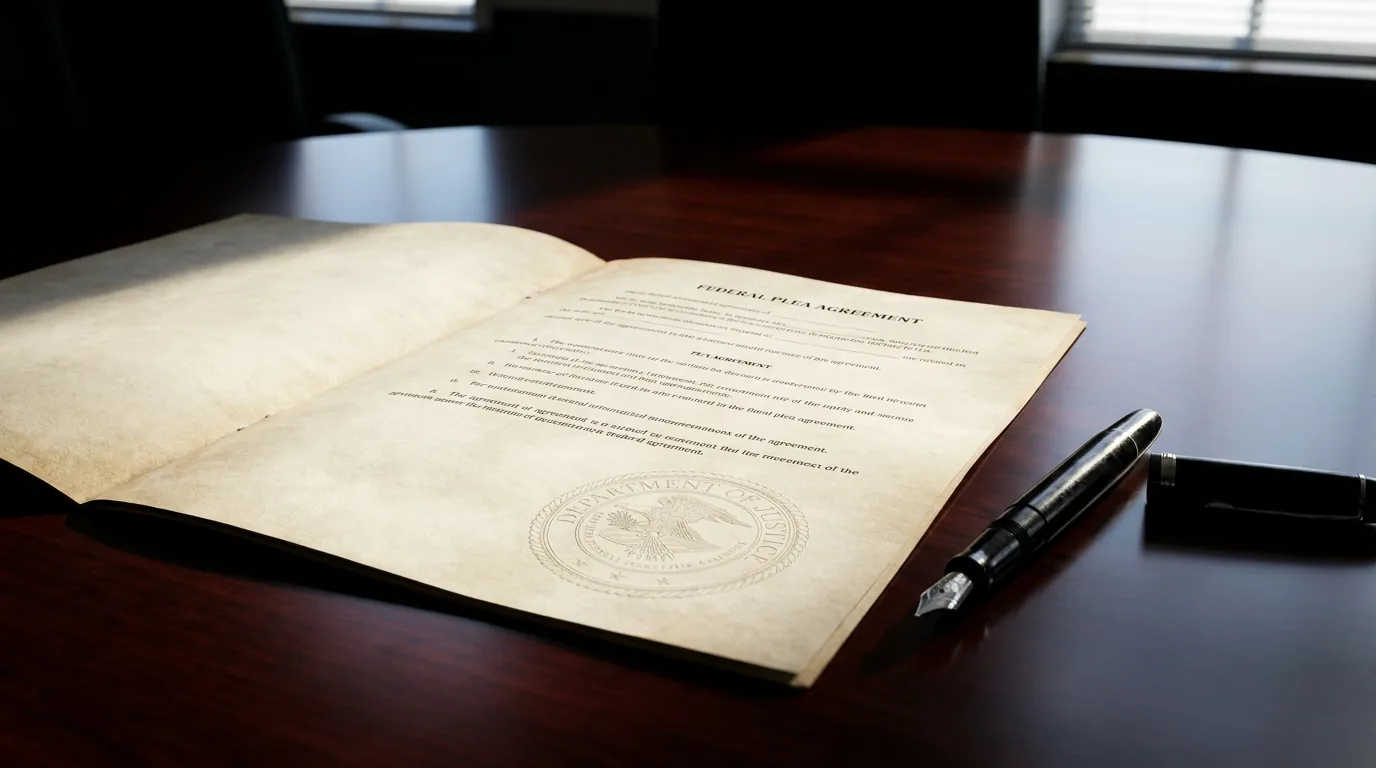
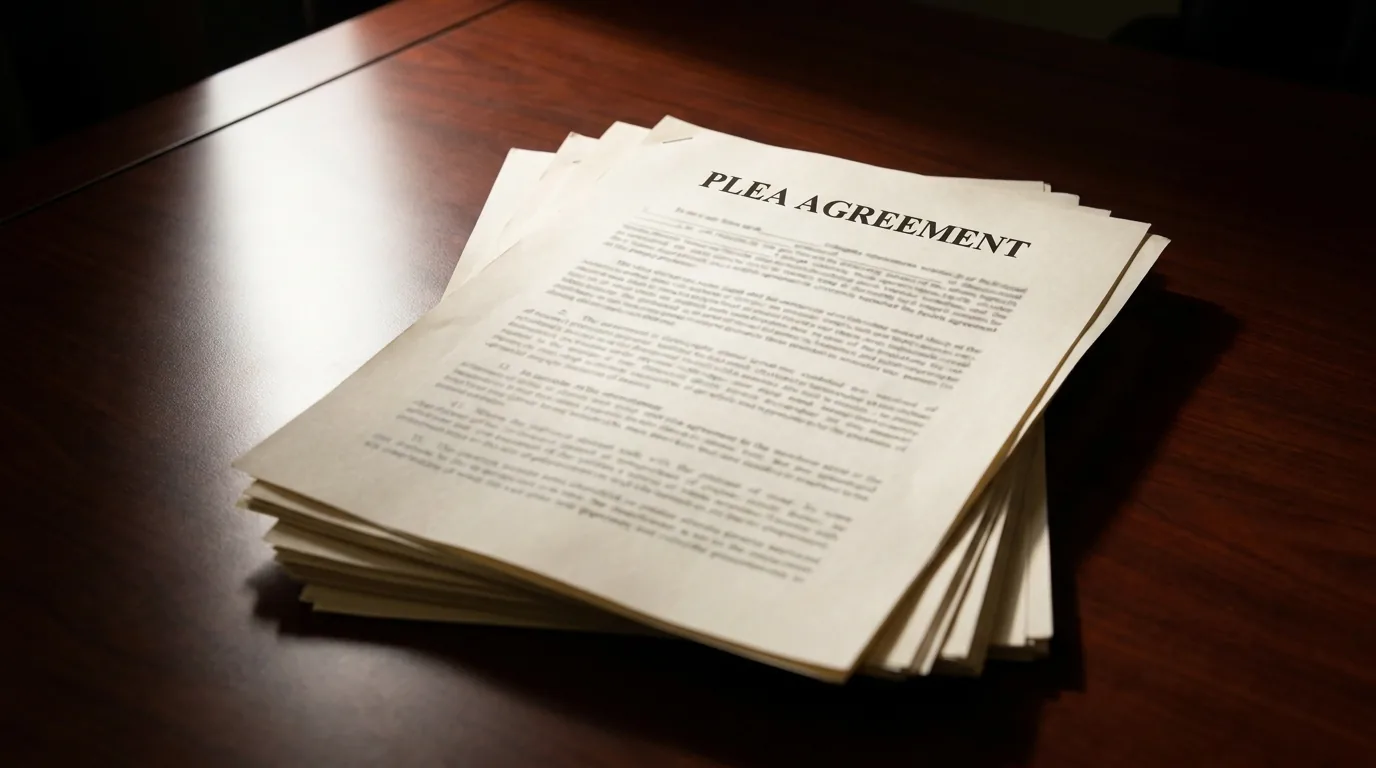
Add thumbnail to S4S dispatch card; replace 3 article covers
- s4s-money-on-books.webp: money order on dark counter for dispatch card
- Dispatch card restructured: .dispatch-card-thumb above .dispatch-card-body
  with hover zoom on thumbnail; padding moved to .dispatch-card-body
- cover-pacer.webp: modern MacBook with docket on screen (replaces 1994 PC)
- cover-plea-deal.webp: flat stacked legal pages, no booklet (fixed)
- cover-lawyer-quality.webp: defense attorney on LEFT, prosecution RIGHT (fixed)

Claude-Session: https://claude.ai/code/session_014Wyb5YrBUkEhH44U126yUb

diff --git a/assets/css/styles.css b/assets/css/styles.css
@@ -998,13 +998,32 @@ body.journal-page {
   border: 1px solid var(--border);
   border-left: 3px solid var(--accent);
   border-radius: var(--radius);
-  padding: 32px 36px;
+  padding: 0;
+  overflow: hidden;
   transition: border-color .25s var(--ease), transform .25s var(--ease);
   cursor: pointer;
 }
 .dispatch-card:hover {
   border-color: var(--accent);
   transform: translateY(-4px);
+}
+.dispatch-card-thumb {
+  width: 100%;
+  aspect-ratio: 16 / 9;
+  overflow: hidden;
+}
+.dispatch-card-thumb img {
+  width: 100%;
+  height: 100%;
+  object-fit: cover;
+  display: block;
+  transition: transform .4s var(--ease);
+}
+.dispatch-card:hover .dispatch-card-thumb img {
+  transform: scale(1.03);
+}
+.dispatch-card-body {
+  padding: 32px 36px;
 }
 
 .dispatch-card-header {

diff --git a/index.php b/index.php
@@ -293,15 +293,20 @@
 
           <div class="dispatch-articles">
             <a class="dispatch-card" href="https://setforsentencing.substack.com/p/how-and-when-to-put-money-on-a-federal" target="_blank" rel="noopener">
-              <div class="dispatch-card-header">
-                <span class="dispatch-pub">Set for Sentencing</span>
-                <span class="dispatch-date">July 19, 2026</span>
+              <div class="dispatch-card-thumb">
+                <img src="assets/img/s4s-money-on-books.webp" alt="Money order on a post office counter — putting money on a federal inmate's books" loading="lazy" />
               </div>
-              <h3>How &amp; When to Put Money on a Federal Inmate's Books</h3>
-              <p>From day one at any BOP facility, families can deposit commissary funds — the same account follows the inmate through every transfer. What to do, how to do it, and what it actually means for the person inside.</p>
-              <span class="dispatch-read">Read on Substack
-                <svg viewBox="0 0 24 24" fill="none" stroke="currentColor" stroke-width="2" stroke-linecap="round" stroke-linejoin="round"><path d="M5 12h14M13 6l6 6-6 6"/></svg>
-              </span>
+              <div class="dispatch-card-body">
+                <div class="dispatch-card-header">
+                  <span class="dispatch-pub">Set for Sentencing</span>
+                  <span class="dispatch-date">July 19, 2026</span>
+                </div>
+                <h3>How &amp; When to Put Money on a Federal Inmate's Books</h3>
+                <p>From day one at any BOP facility, families can deposit commissary funds — the same account follows the inmate through every transfer. What to do, how to do it, and what it actually means for the person inside.</p>
+                <span class="dispatch-read">Read on Substack
+                  <svg viewBox="0 0 24 24" fill="none" stroke="currentColor" stroke-width="2" stroke-linecap="round" stroke-linejoin="round"><path d="M5 12h14M13 6l6 6-6 6"/></svg>
+                </span>
+              </div>
             </a>
           </div>
 
